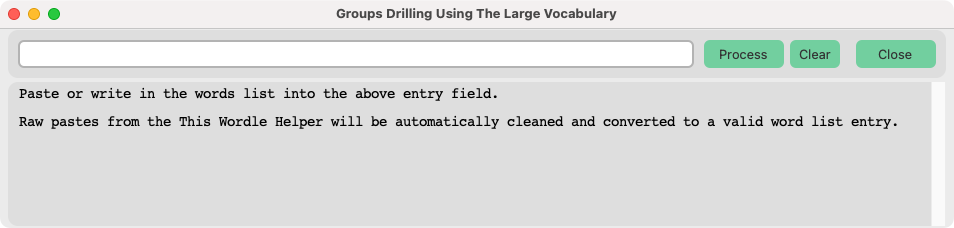
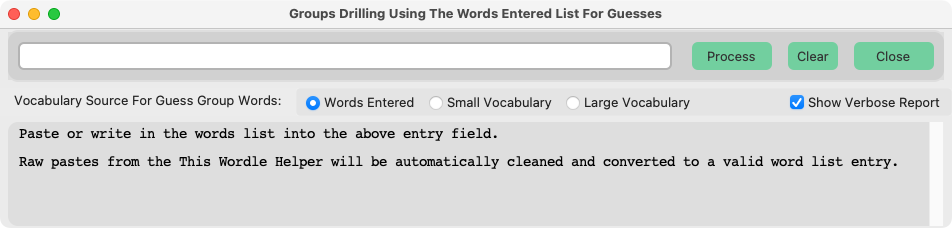
Groupdrilling enhancements

diff --git a/groupdrilling.py b/groupdrilling.py
@@ -18,17 +18,54 @@ data_path = 'worddata/'  # path from here to data folder
 letter_rank_file = 'letter_ranks.txt'
 
 
-def process_grp_list(g_word_lst: list) -> dict:
-    all_targets = helpers.ToolResults(data_path,
-                                      'nyt_wordlist.txt',
-                                      letter_rank_file,
-                                      True,
-                                      0).get_ranked_results_wrd_lst(True)
+def process_grp_list(self, g_word_lst: list) -> dict:
+    # all_targets = helpers.ToolResults(data_path,
+    #                                   'nyt_wordlist.txt',
+    #                                   letter_rank_file,
+    #                                   True,
+    #                                   0).get_ranked_results_wrd_lst(True)
+    #
+    # optimal_group_guesses = helpers.extended_best_groups_guess_dict(g_word_lst,
+    #                                                                 True,
+    #                                                                 all_targets,
+    #                                                                 'Large Vocabulary')
 
-    optimal_group_guesses = helpers.extended_best_groups_guess_dict(g_word_lst,
-                                                                    True,
-                                                                    all_targets,
-                                                                    'Large Vocabulary')
+    # Flag to use various solutions as guesses instead of the current displayed word list.
+    # This is allows the option to group rank from the entire guess list.
+    grps_guess_source = self.grps_guess_source.get()
+    optimal_group_guesses = {}
+    match grps_guess_source:
+        case 0:
+            optimal_group_guesses = helpers.best_groups_guess_dict(g_word_lst,
+                                                                   self.verbose_grps.get()
+                                                                   )
+
+        case 1:
+            # get the entire possible solutions list
+            all_targets = helpers.ToolResults(data_path,
+                                              'wo_nyt_wordlist.txt',
+                                              letter_rank_file,
+                                              True,
+                                              0).get_ranked_results_wrd_lst(True)
+            msg1 = 'Small Vocabulary'
+            optimal_group_guesses = helpers.extended_best_groups_guess_dict(g_word_lst,
+                                                                            self.verbose_grps.get(),
+                                                                            all_targets,
+                                                                            msg1)
+        case 2:
+            # get the entire possible guess list
+            all_targets = helpers.ToolResults(data_path,
+                                              'nyt_wordlist.txt',
+                                              letter_rank_file,
+                                              True, 0).get_ranked_results_wrd_lst(True)
+            msg1 = 'Large Vocabulary'
+            optimal_group_guesses = helpers.extended_best_groups_guess_dict(g_word_lst,
+                                                                            self.verbose_grps.get(),
+                                                                            all_targets,
+                                                                            msg1)
+        case _:
+            pass
+
     return optimal_group_guesses
 
 
@@ -41,11 +78,11 @@ class GrpsDrillingMain(ctk.CTk):
     def close_rpt(self) -> NoReturn:
         self.destroy()
 
-    def clean_the_grp_list(self) -> tuple[bool, list[str]]:
+    def clean_the_grp_list(self) -> tuple[bool, list[str], list[str]]:
         this_grp = self.grp_words_text.get()
         # First strip out numbers, like those that are rankings from
         # the wordle helper.
-        this_grp = re.sub('[-:;.0123456789()]', '', this_grp).lower()
+        this_grp = re.sub('[-:;.0123456789()~!@#$%^&*+_|?><`/{}]', '', this_grp).lower()
         # Let spaces comma separate the words. Commas will be used in a
         # later strip function that operates on section split by comma.
         # Empty words will be culled later on.
@@ -60,13 +97,15 @@ class GrpsDrillingMain(ctk.CTk):
         self.grp_words_text.set(', '.join(this_lst))
 
         status = True
+        bads = []
         for w in this_lst:
             if len(w) != 5:
                 status = False
-        return status, this_lst
+                bads.append(w)
+        return status, this_lst, bads
 
     def process_entry_list(self):
-        (entry_status, this_lst) = self.clean_the_grp_list()
+        (entry_status, this_lst, bads) = self.clean_the_grp_list()
         if not entry_status:
             self.update()
             tkinter.messagebox.showerror(title='Will Not Proceed',
@@ -77,7 +116,7 @@ class GrpsDrillingMain(ctk.CTk):
             self.set_busy_status_msg()
             self.button_process.configure(state='disabled')
             self.update()
-            optimal_group_guesses = process_grp_list(this_lst)
+            optimal_group_guesses = process_grp_list(self, this_lst)
             # Report the results
             self.report_results(this_lst, optimal_group_guesses)
             self.title("Groups Drilling")
@@ -120,6 +159,29 @@ class GrpsDrillingMain(ctk.CTk):
         self.tx_status.replace('1.0', 'end', 'Busy, please wait ...')
         self.tx_status.configure(state='disabled')
 
+    def title_status(self):
+        match self.grps_guess_source.get():
+            case 0:
+                self.title("Groups Drilling Using The Words Entered List For Guesses")
+            case 1:
+                self.title("Groups Drilling Using The Small Vocabulary For Guesses")
+            case 2:
+                self.title("Groups Drilling Using The Large Vocabulary For Guesses")
+            case _:
+                pass
+        # Focus is most likely best at the entry field.
+        self.entry_find.focus()
+
+    def on_list_entry_return_release(self, _):
+        (entry_status, this_lst, bads) = self.clean_the_grp_list()
+        if not entry_status:
+            self.update()
+            tkinter.messagebox.showerror(title='Entry Will Not Be Processed',
+                                         message='\nOnly five letter words allowed.'
+                                                 '\nCheck the entry for:'
+                                                 '\n{}'.format(str(bads)[1:-1])
+                                         )
+
     def __init__(self):
         super().__init__()
         self.title("Groups Drilling Using The Large Vocabulary")
@@ -131,6 +193,8 @@ class GrpsDrillingMain(ctk.CTk):
 
         # set the Vars
         self.grp_words_text = tk.StringVar()
+        self.grps_guess_source = tk.IntVar(value=0)
+        self.verbose_grps = tk.BooleanVar(value=True)
 
         # configure style
         style = ttk.Style()
@@ -145,28 +209,65 @@ class GrpsDrillingMain(ctk.CTk):
         self.cnt_frame.pack(fill=tk.X, padx=8, pady=2)
 
         # controls
-        self.button_close = ctk.CTkButton(self.cnt_frame, text="Close",
+
+        self.bts_frame = ctk.CTkFrame(self.cnt_frame,
+                                      corner_radius=10,
+                                      borderwidth=0
+                                      )
+        self.bts_frame.pack(fill=tk.X, padx=0, pady=2)
+
+        self.entry_find = ctk.CTkEntry(self.bts_frame,
+                                       textvariable=self.grp_words_text
+                                       )
+        self.entry_find.pack(side=tk.LEFT, padx=10, pady=6, expand=1, fill=tk.X)
+        self.entry_find.bind("<KeyRelease-Return>", self.on_list_entry_return_release)
+
+        self.button_close = ctk.CTkButton(self.bts_frame, text="Close",
                                           width=80,
                                           command=self.destroy)
         self.button_close.pack(side="right", padx=10, pady=10)
         self.protocol("WM_DELETE_WINDOW", self.destroy)  # assign to closing button [X]
 
-        self.entry_find = ctk.CTkEntry(self.cnt_frame,
-                                       textvariable=self.grp_words_text,
-                                       )
-        self.entry_find.pack(side=tk.LEFT, padx=10, pady=10, expand=1, fill=tk.X)
-
-        self.button_process = ctk.CTkButton(self.cnt_frame, text="Process",
+        self.button_process = ctk.CTkButton(self.bts_frame, text="Process",
                                             width=80,
                                             command=self.process_entry_list
                                             )
-        self.button_process.pack(side="left", padx=0, pady=10)
+        self.button_process.pack(side="left", padx=10, pady=10)
 
-        self.button_clear = ctk.CTkButton(self.cnt_frame, text="Clear",
+        self.button_clear = ctk.CTkButton(self.bts_frame, text="Clear",
                                           width=40,
                                           command=self.clear_list
                                           )
         self.button_clear.pack(side="left", padx=6, pady=10)
+
+        # labelframe within groups frame for which list option
+        self.grp_lst_ops_frame = ttk.LabelFrame(self,
+                                                text='Vocabulary Source For Guess Group Words:',
+                                                labelanchor='w'
+                                                )
+        self.grp_lst_ops_frame.pack(side=tk.TOP, padx=0, pady=4, fill=tk.X)
+        self.rbrA = ttk.Radiobutton(self.grp_lst_ops_frame, text="Words Entered",
+                                    variable=self.grps_guess_source, value=0,
+                                    command=self.title_status)
+        self.rbrA.pack(side=tk.LEFT, fill=tk.X, padx=6, pady=2)
+        self.rbrB = ttk.Radiobutton(self.grp_lst_ops_frame, text="Small Vocabulary",
+                                    variable=self.grps_guess_source, value=1,
+                                    command=self.title_status)
+        self.rbrB.pack(side=tk.LEFT, fill=tk.X, padx=6, pady=2)
+        self.rbrC = ttk.Radiobutton(self.grp_lst_ops_frame, text="Large Vocabulary",
+                                    variable=self.grps_guess_source, value=2,
+                                    command=self.title_status)
+        self.rbrC.pack(side=tk.LEFT, fill=tk.X, padx=6, pady=2)
+
+        # Show Verbose Report checkbox
+        self.chk_grp_disp = ttk.Checkbutton(self.grp_lst_ops_frame,
+                                            text="Show Verbose Report",
+                                            variable=self.verbose_grps,
+                                            onvalue=True,
+                                            offvalue=False
+                                            )
+        self.chk_grp_disp.pack(side=tk.RIGHT, padx=10, pady=2)
+        # end labelframe within groups frame for which list option
 
         # status frame
         self.stat_frame = ctk.CTkFrame(self,
@@ -194,6 +295,8 @@ class GrpsDrillingMain(ctk.CTk):
         self.tx_status_sb.pack(side="right", fill=tk.Y)
         self.tx_status.config(yscrollcommand=self.tx_status_sb.set)
         self.tx_status_sb.config(command=self.tx_status.yview)
+        # Respond to initial state
+        self.title_status()
 
 
 # end GrpsDrillingMain class

diff --git a/README.md b/README.md
@@ -7,15 +7,16 @@
 * **In Use Main Window Shown Next to NYT Results:**
 !['In use Image Image'](InfoImages/PYWTInUse.png)
 * **Information Window:**
-  The information window explains the Helper features in detail. Its content is included at this Readme's end section. The previous two images are intended to show what the Helper does.
+  The information window explains the **Helper** features in detail. Its content is included at this Readme's end section. The previous two images are intended to show what the **Helper** does.
 !['Information Window Image'](InfoImages/PYWTHelp.png)
 
 ### What To Expect From This Helper
 
 * Expect nothing more than a helper with a thorough vocabulary that presents words only matching the letters you specify.
-* The Helper was created for investigating Wordle word pick strategies. Using the Helper removes the task of thinking up five-letter words to allow one to focus only on play strategy.
-* The Helper "knows" the words but not which word is the solution. As such the Helper ruins the game for those where thinking up words is the attraction to Wordle.
-* A companion to the helper is **fmwm.py**, the Finite Monkey Wordle Machine. With **fmwm.py** one can measure how many random guesses are required to solve Wordles. It can also find all the **Magic Words** present in the vocabulary for a given word. **Magic Words** reduce the selection guess pool to contain just the solution word. See [FMWM_Readme.md](FMWM_Readme.MD) for more information.
+* The **Helper** was created for investigating Wordle word pick strategies. Using the **Helper** removes the task of thinking up five-letter words to allow one to focus only on play strategy.
+* The **Helper** "knows" the words but not which word is the solution. As such the Helper ruins the game for those where thinking up words is the attraction to Wordle.
+* A companion to the **Helper** is **groupdrilling.py**, a word groups analyzer separate from the **Helper's** groups analyzer. Its purpose is for examining groups properties in a manor independent of the **Helper**  and thus without disturbing the **Helper's** current state.
+* Another companion to the **Helper** is **fmwm.py**, the Finite Monkey Wordle Machine. With **fmwm.py** one can measure how many random guesses are required to solve Wordles. It can also find all the **Magic Words** present in the vocabulary for a given word. **Magic Words** reduce the selection guess pool to contain just the solution word. See [FMWM_Readme.md](FMWM_Readme.MD) for more information.
 
 ### Running the Wordle helper
 
@@ -24,16 +25,18 @@
 * Enter the command: ```python3 pywt.py```
 * For Apple OSX and Linux systems double-clicking the **start-pywt.command** file in the **Finder** also starts the Wordle helper.
 
-### Running the Wordle helper with **start-pywt.command**
+### Running the Wordle Helper with **start-pywt.command**
 
 * **start-pywt.command** is a shell script intended for launching the Wordle helper from a computer's file browser. It should run the helper with a double-click after being properly setup.
-* Setting up **start-pywt.command** requires marking it an executable file. This is later described in **Installing the Wordle helper**
+* Setting up **start-pywt.command** requires marking it an executable file. This is later described in **Installing the Wordle Helper**
 * **start-pywt.command** checks for required components before launching the Wordle helper. It reports what components are missing and will not launch the Wordle helper when critical components are missing.
 * **start-pywt.command** output looks like this when it is launching the Wordle helper:
 !['start-pywt.command Image'](InfoImages/PYWTLauncher.png)
 
 ### Requirements
 
+* Linux, Apple OSX or Microsoft Windows running a Linux subsystem
+  * It should be possible to have the **Helper** running in a Linux subsystem running in Microsoft Windows, but these instructions do not explain how. The Linux subsystem would need to have OS components, like 'cat', 'grep' and 'bash' typically present on any Apple OSX or Linux system in addition to the python3, pip and customtkinter installs.  
 * python3: (<https://www.python.org/downloads/>)
 * pip: (<https://pypi.org/project/pip/>)
 * customtkinter
@@ -43,9 +46,9 @@
 After installing python3 and pip, the following commands entered in a Terminal window will install the 4.6.3 version of 'customtkinter':
 `pip3 install --upgrade customtkinter==4.6.3`
 
-* Note: As of this writing customtkinter is higher than version 4.6.3. Some prior to 4.6.3 versions and post 4.6.3 versions do not function properly. The result will be the Wordle helper not running at all with no feedback.  Version 4.6.3 works with this Helper in Apple OSs: Ventura 13.0, Monterey 12.6 and Catalina 10.15.7.
+* Note: As of this writing customtkinter is higher than version 4.6.3. Some prior to 4.6.3 versions and post 4.6.3 versions do not function properly. The result will be the Wordle **Helper** not running at all with no feedback.  Version 4.6.3 works with this **Helper** in Apple OSs: Ventura 13.0, Monterey 12.6 and Catalina 10.15.7.
 
-### Installing the Wordle helper
+### Installing the Wordle Helper
 
 * Download the **pywtpackage.zip** release file from the repository releases link.
 * Unzip the **pywtpackage.zip** release file. It should unzip to be a folder named pywtpackage.
@@ -92,15 +95,17 @@ After installing python3 and pip, the following commands entered in a Terminal w
 !['Verbose Window Top Image'](InfoImages/PYWTVerboseGrpsTop.png)
 
 ### Groupdrilling
+
 !['Group Drilling Main Window Image'](InfoImages/PYWTGroupDrillingMain.png)
 
-* **Groupdrilling.py** is a utility that performs a groups analysis using the large vocabulary against any group of words. It is intended for investigating a word group's effective size, in other words how easily a word's group resolves to a single word.
-* Copy a word group from any **Verbose Report** (or a spreadsheet row) and paste it into the **Groupdrilling** entry field. Text that includes rank numbers copied from the Helper words list may also be pasted. Pasted text will be properly formatted into a list and analysed when pressing the **Process** button.
-* With **Groupdrilling.py** running, one leaves the Helper's **Verbose Report** open using its **Find** feature to show a guess's groups. Copy and Paste a group to be further analysed into the **Groupdrilling.py** entry field. Then press the **Process** button. 
-* **Groupdrilling.py** summarizes the results and also opens a **Verbose Report** identical to the type shown by the Helper. The workflow allows one to leave the Helper's verbose window open to navigate to different guess word results to be then further investigated by pastes into the **Groupdrilling.py**.
+* **Groupdrilling.py** is a utility that performs a groups analysis using the list, small and large vocabulary against any group of words. It is intended for investigating a word group's effective size, in other words how easily a word's group resolves to a single word.
+* Copy a word group from any **Verbose Report** (or a spreadsheet row) and paste it into the **Groupdrilling** entry field. Text that includes rank numbers copied from the Helper words list may also be pasted. Pasted text will be properly formatted into a list and analyzed when pressing the **Process** button. Pressing and releasing the **Return** keyboard key will instead clean and format the entry without starting the analyze process.
+* With **Groupdrilling.py** running, one leaves the Helper's **Verbose Report** open using its **Find** feature to show a guess's groups. Copy and Paste a group to be further analyzed into the **Groupdrilling.py** entry field. Then press the **Process** button. 
+* **Groupdrilling.py** summarizes the results and also opens a **Verbose Report** identical to the type shown by the Helper. The workflow allows one to leave the Helper's verbose groups window open to navigate to different guess word results that can be then investigated further by pastes into the **Groupdrilling.py**.
 
 !['Group Drilling Result Window Image'](InfoImages/PYWTGroupDrillingResult.png)
 
+* The **Groupdrilling.py** verbose report window is not being shown in this **README**. It is identical in function and appearance to the **Helper's** verbose report window.  
 * The convenience script **start-groupdrilling.command** may be used to run **Groupdrilling.py**. **start-groupdrilling.command** will need to be made executable as described in **Installing the Wordle helper**.
 
 ### Wordle Play Strategies
